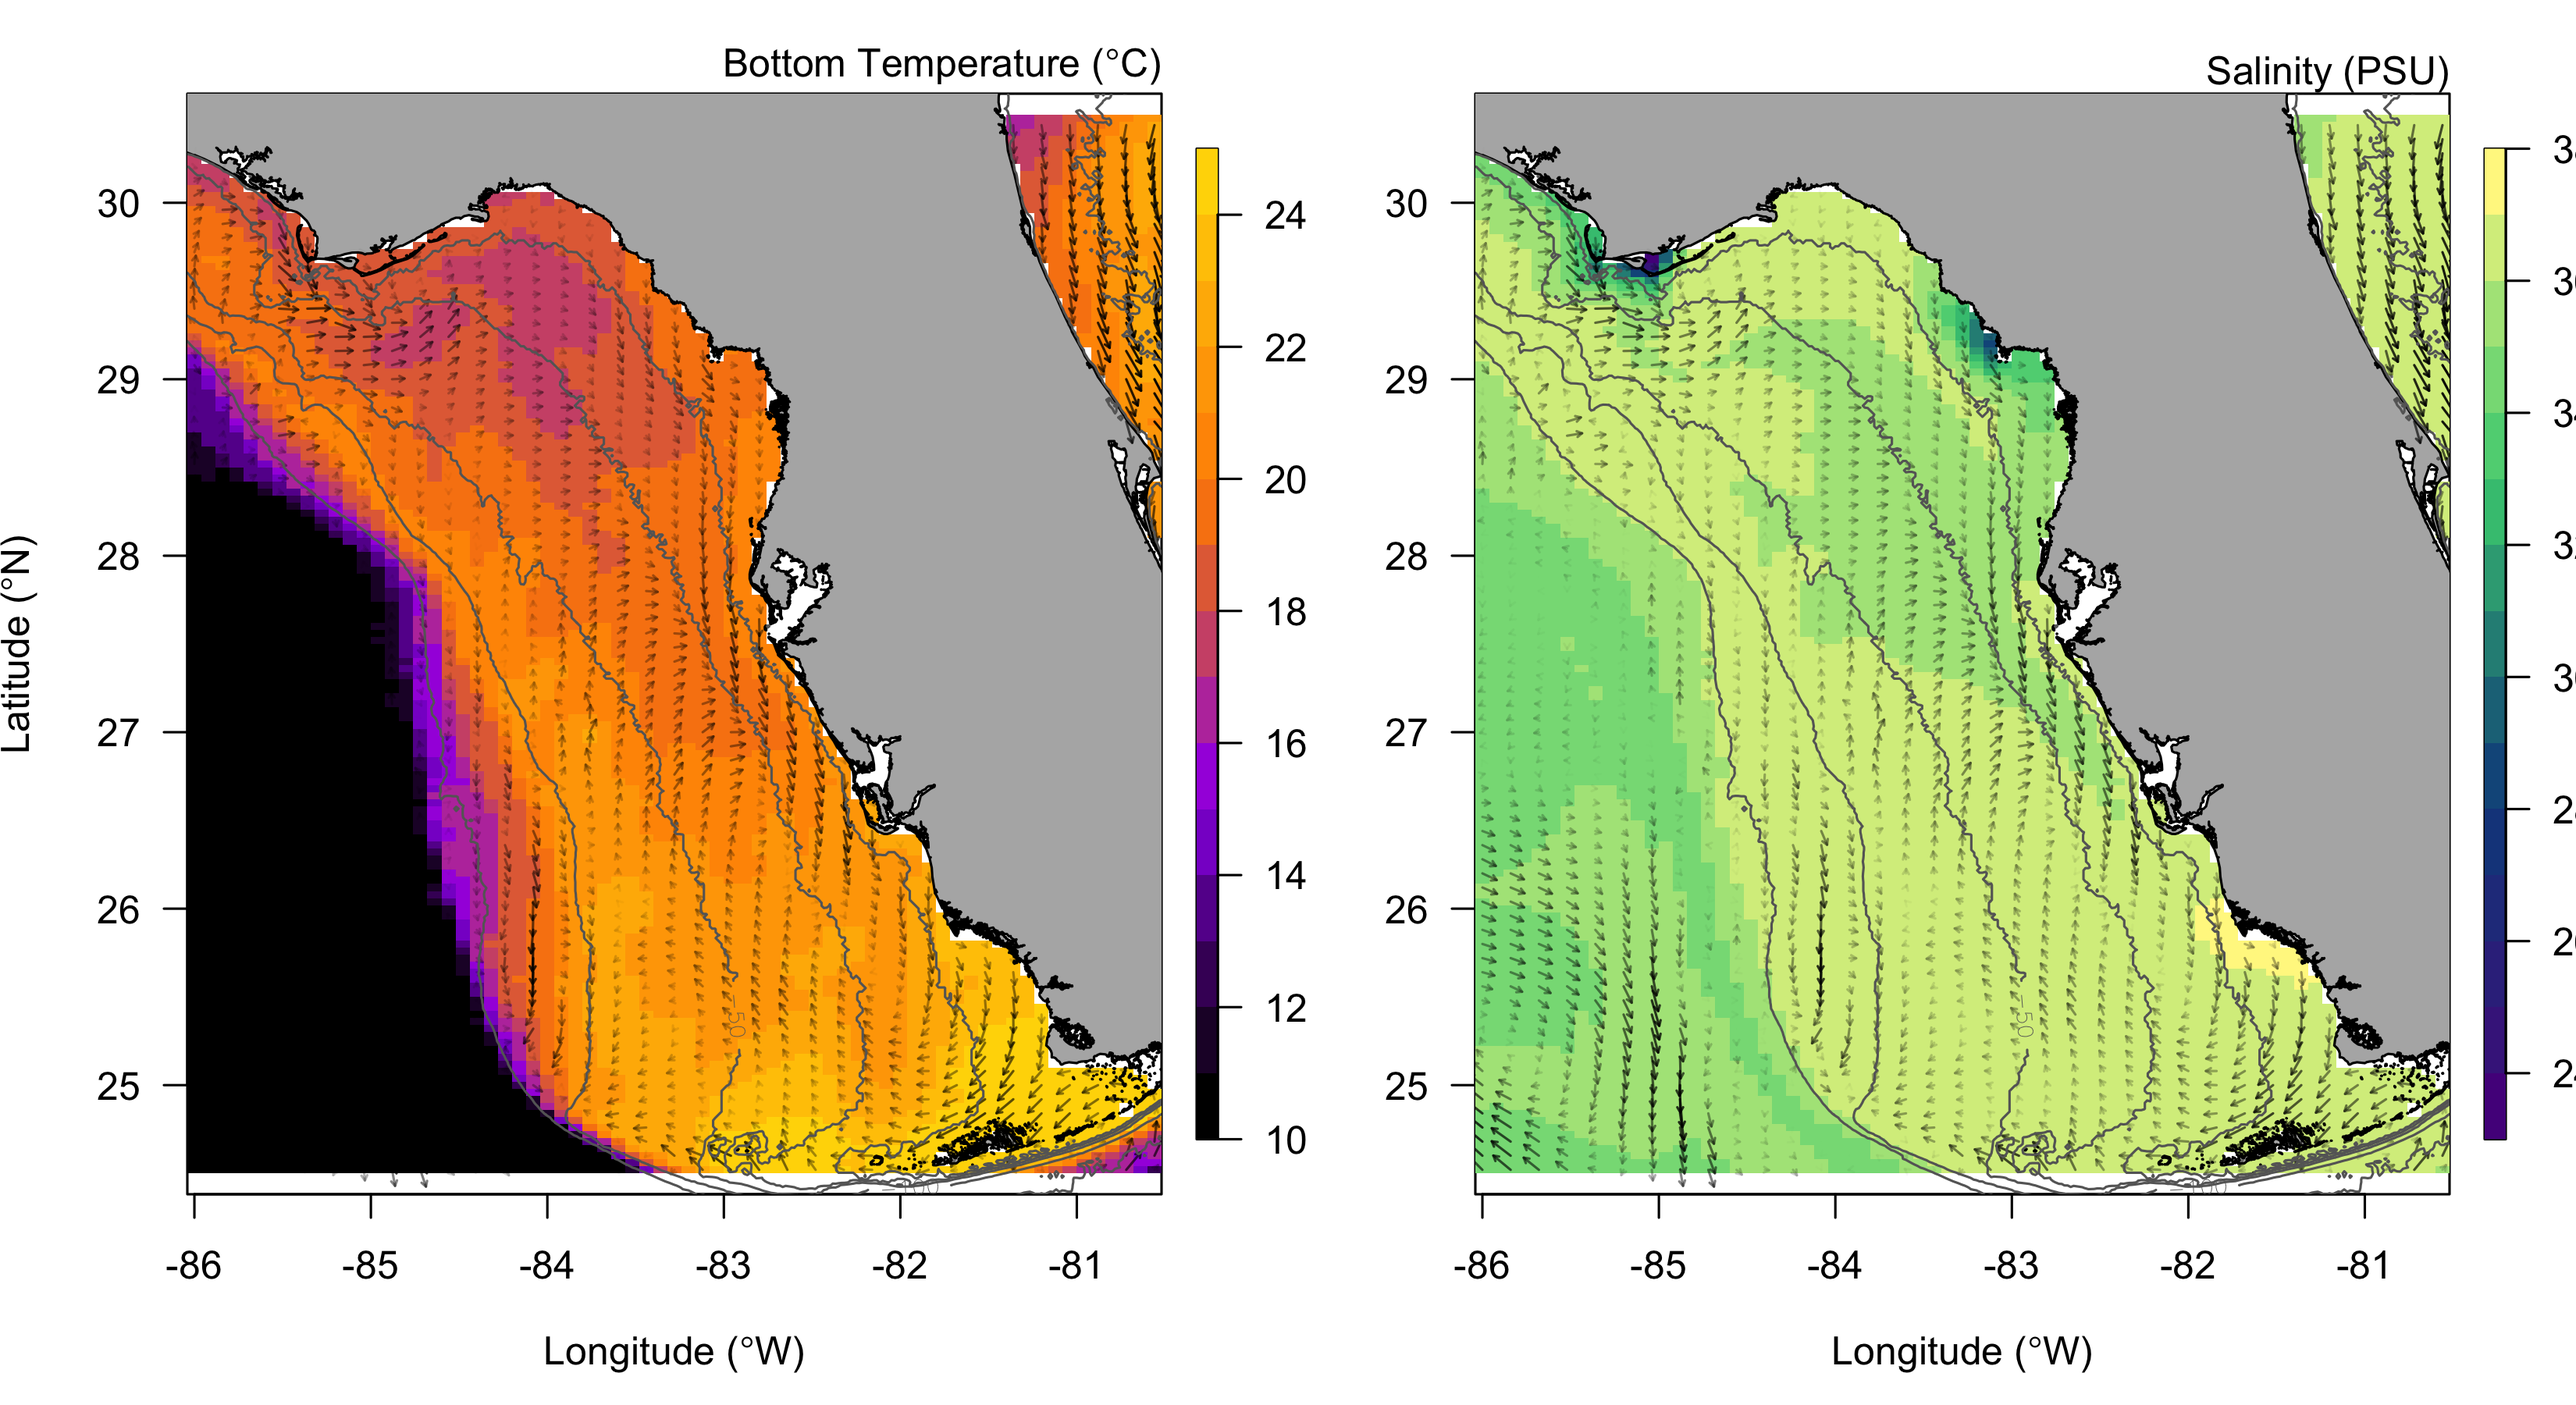
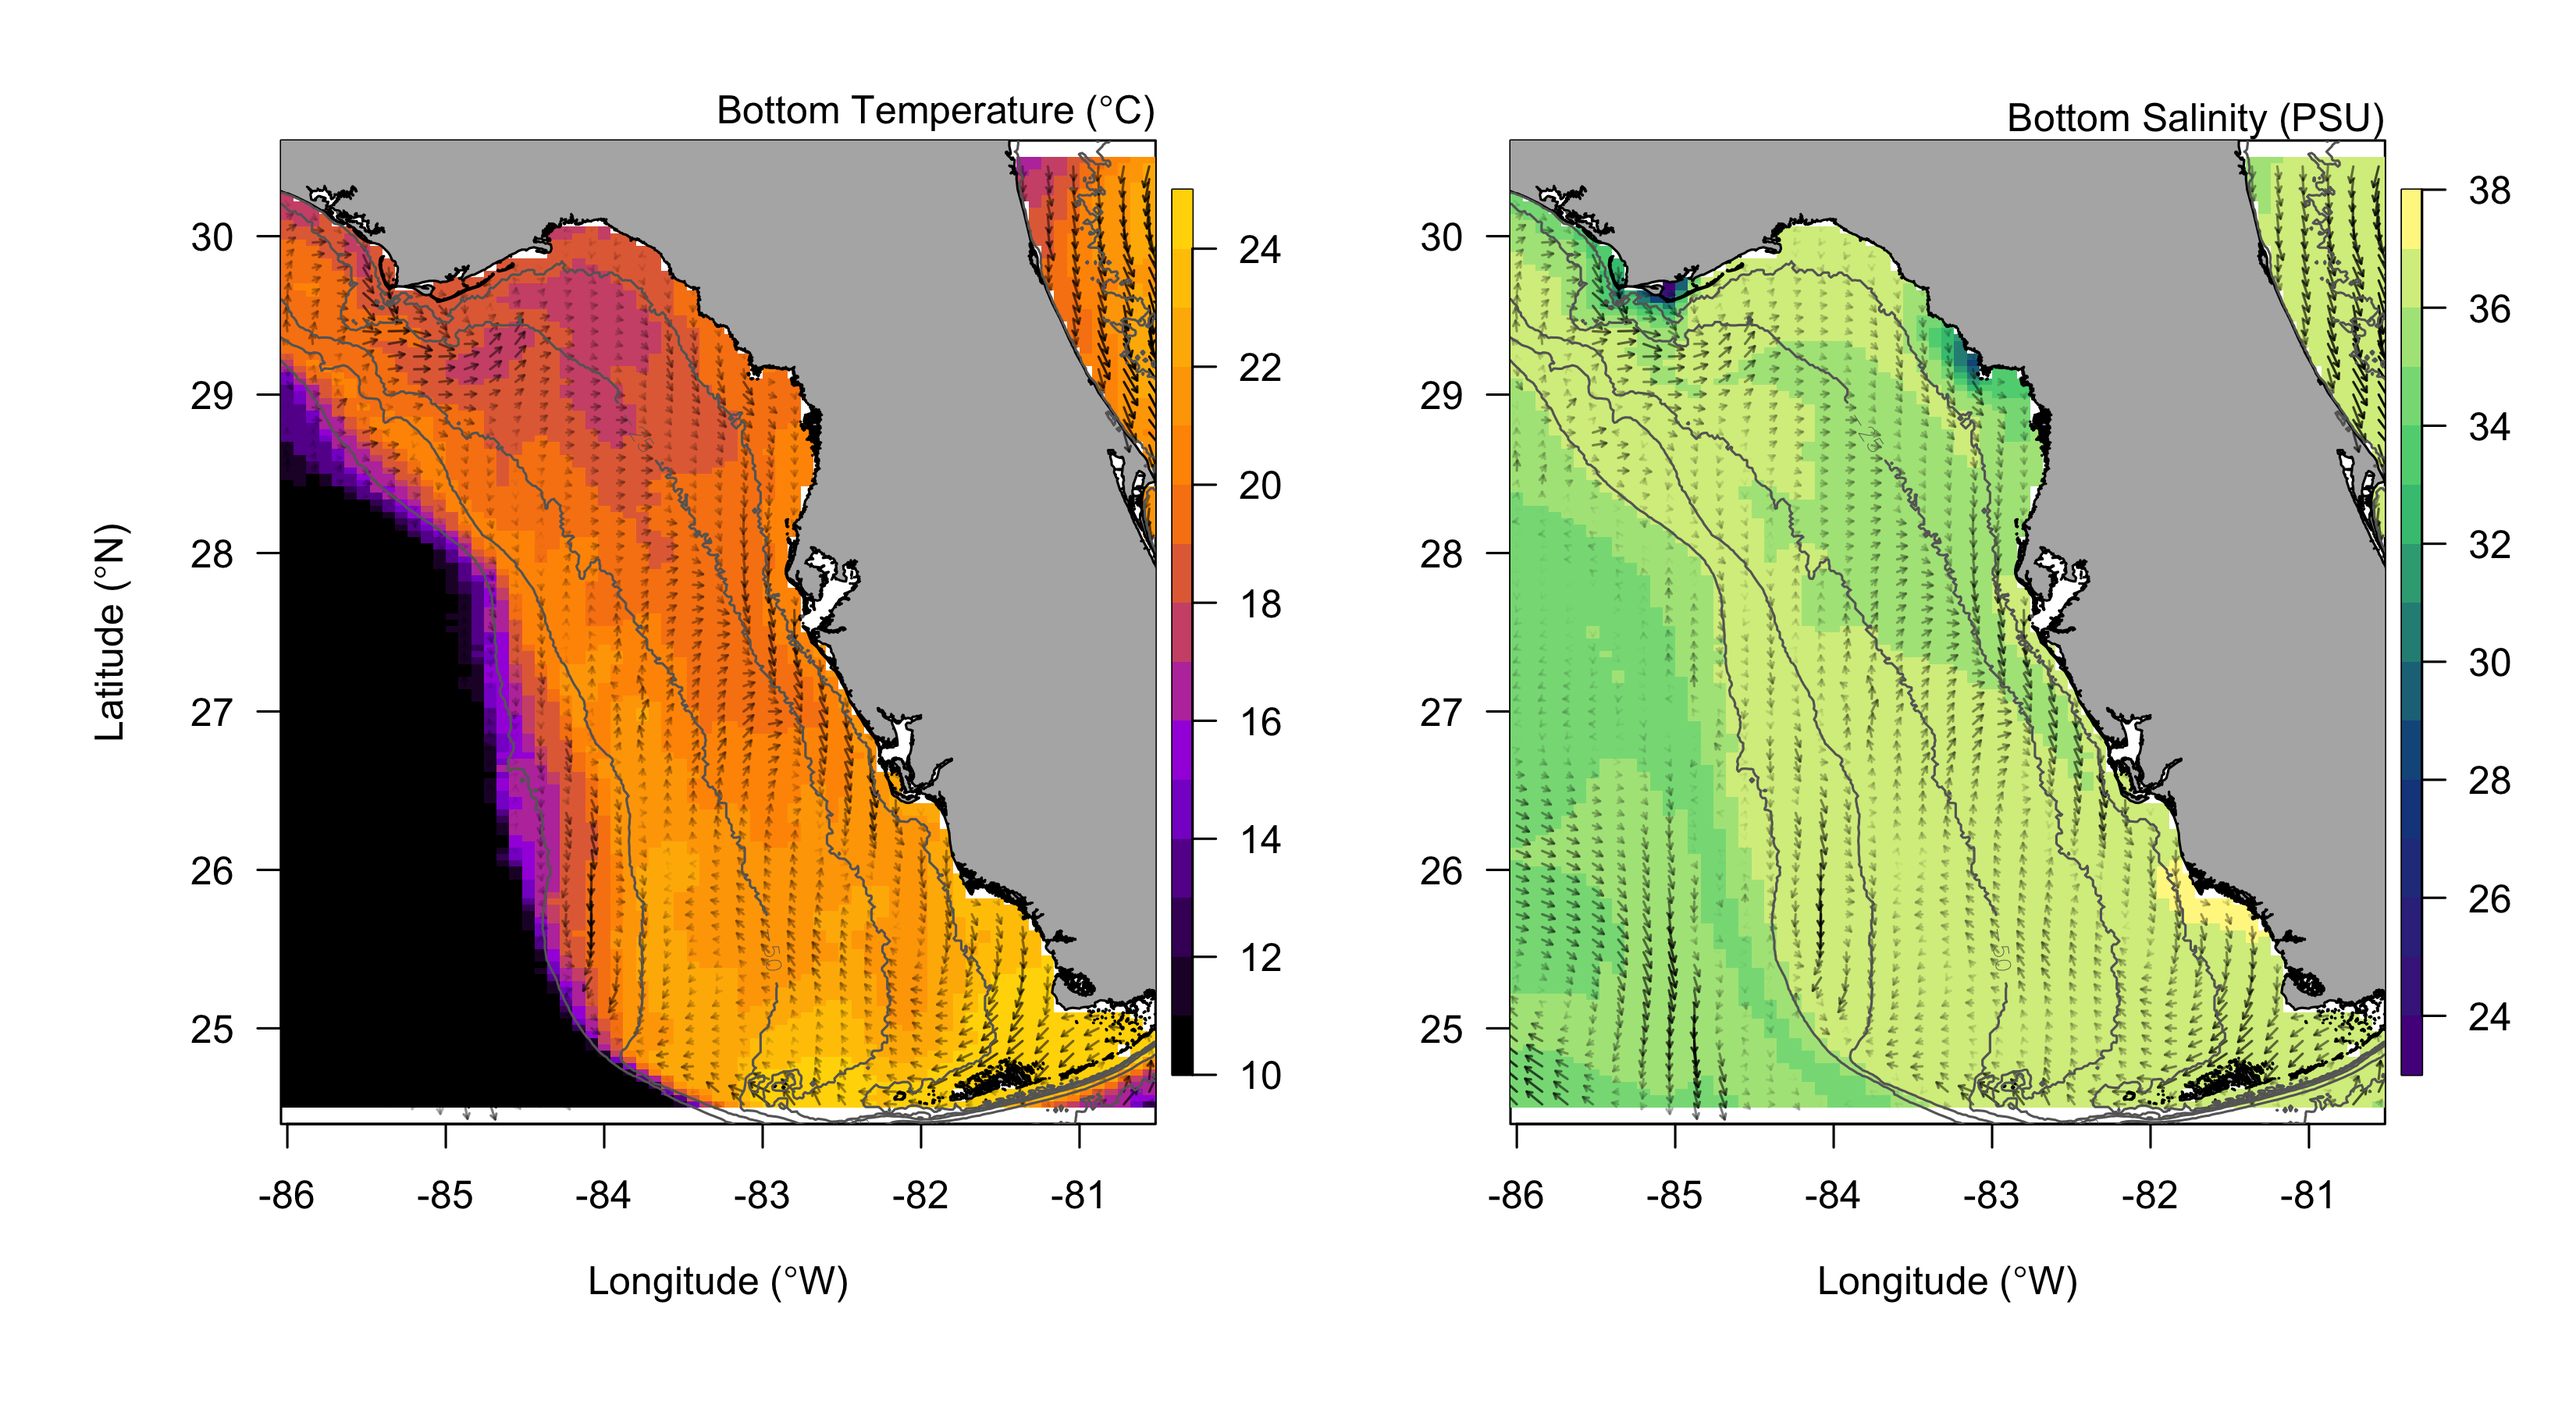
new figures

diff --git a/README.md b/README.md
@@ -6,3 +6,6 @@ Southwest Florida environmental conditions
 # Current conditions
 
 ![alt text](https://github.com/imaginaryfish/SWFL_conditions/blob/main/figures/hycom_bottom_now.png "Current conditions")
+
+
+![alt text](https://github.com/imaginaryfish/SWFL_conditions/blob/main/figures/hycom_bottom_lin.png "7-day linear trend in conditions")
